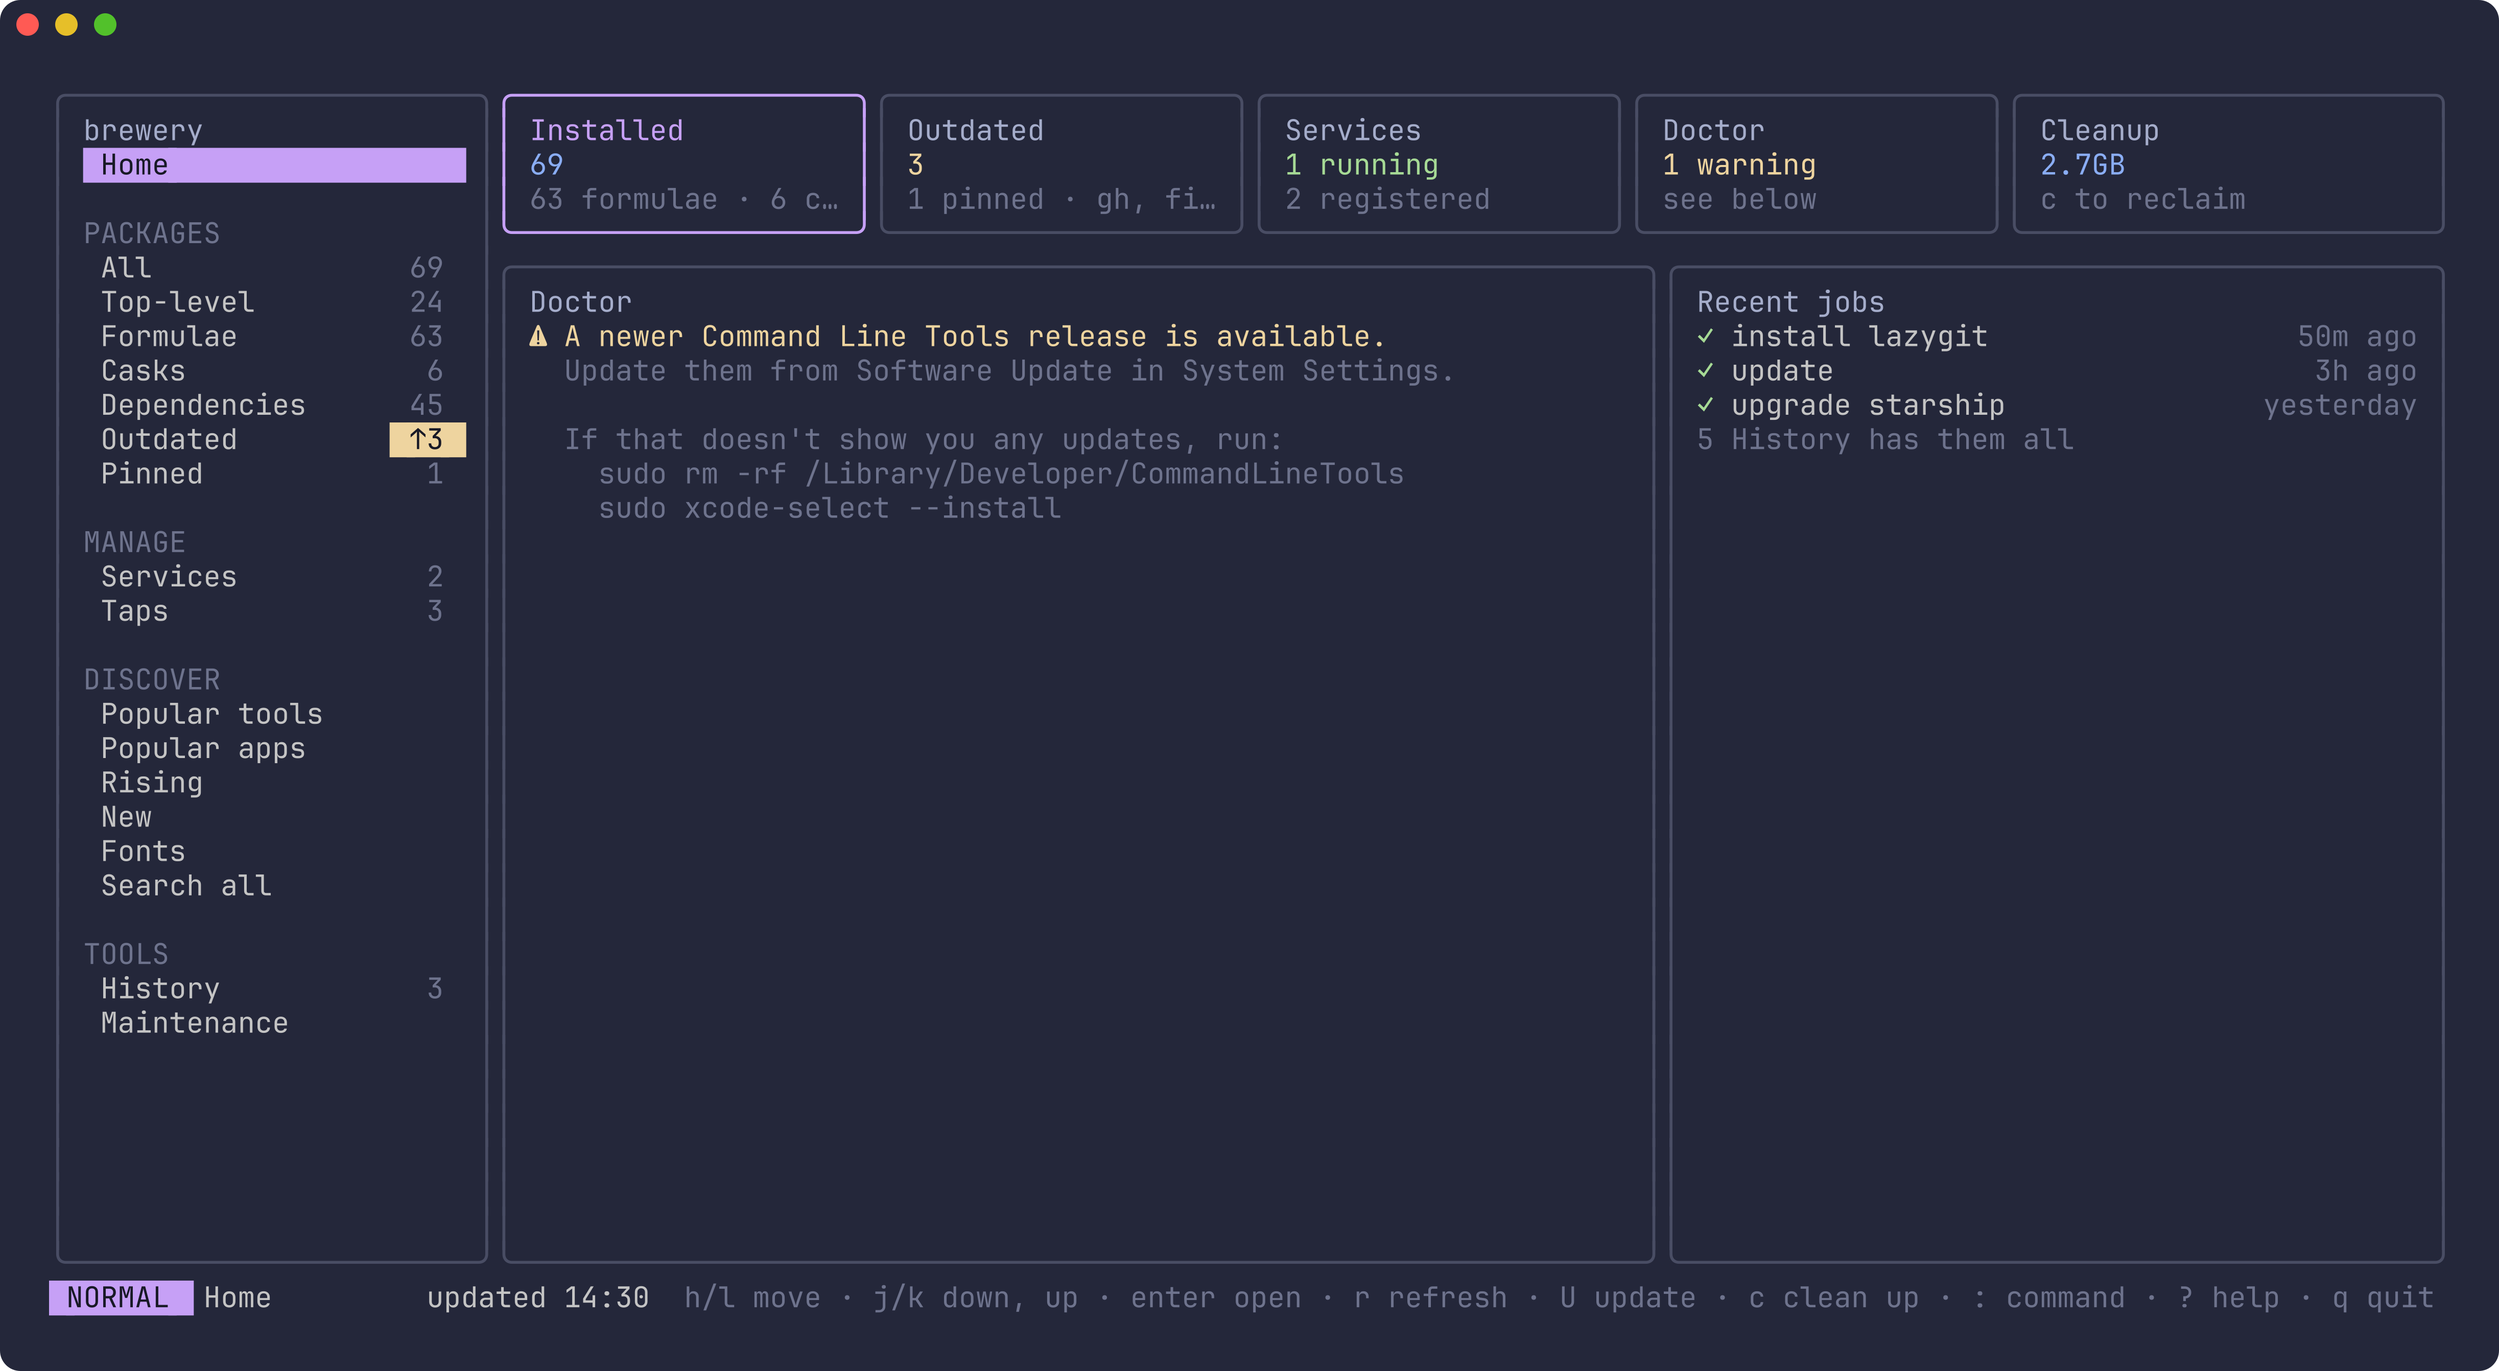
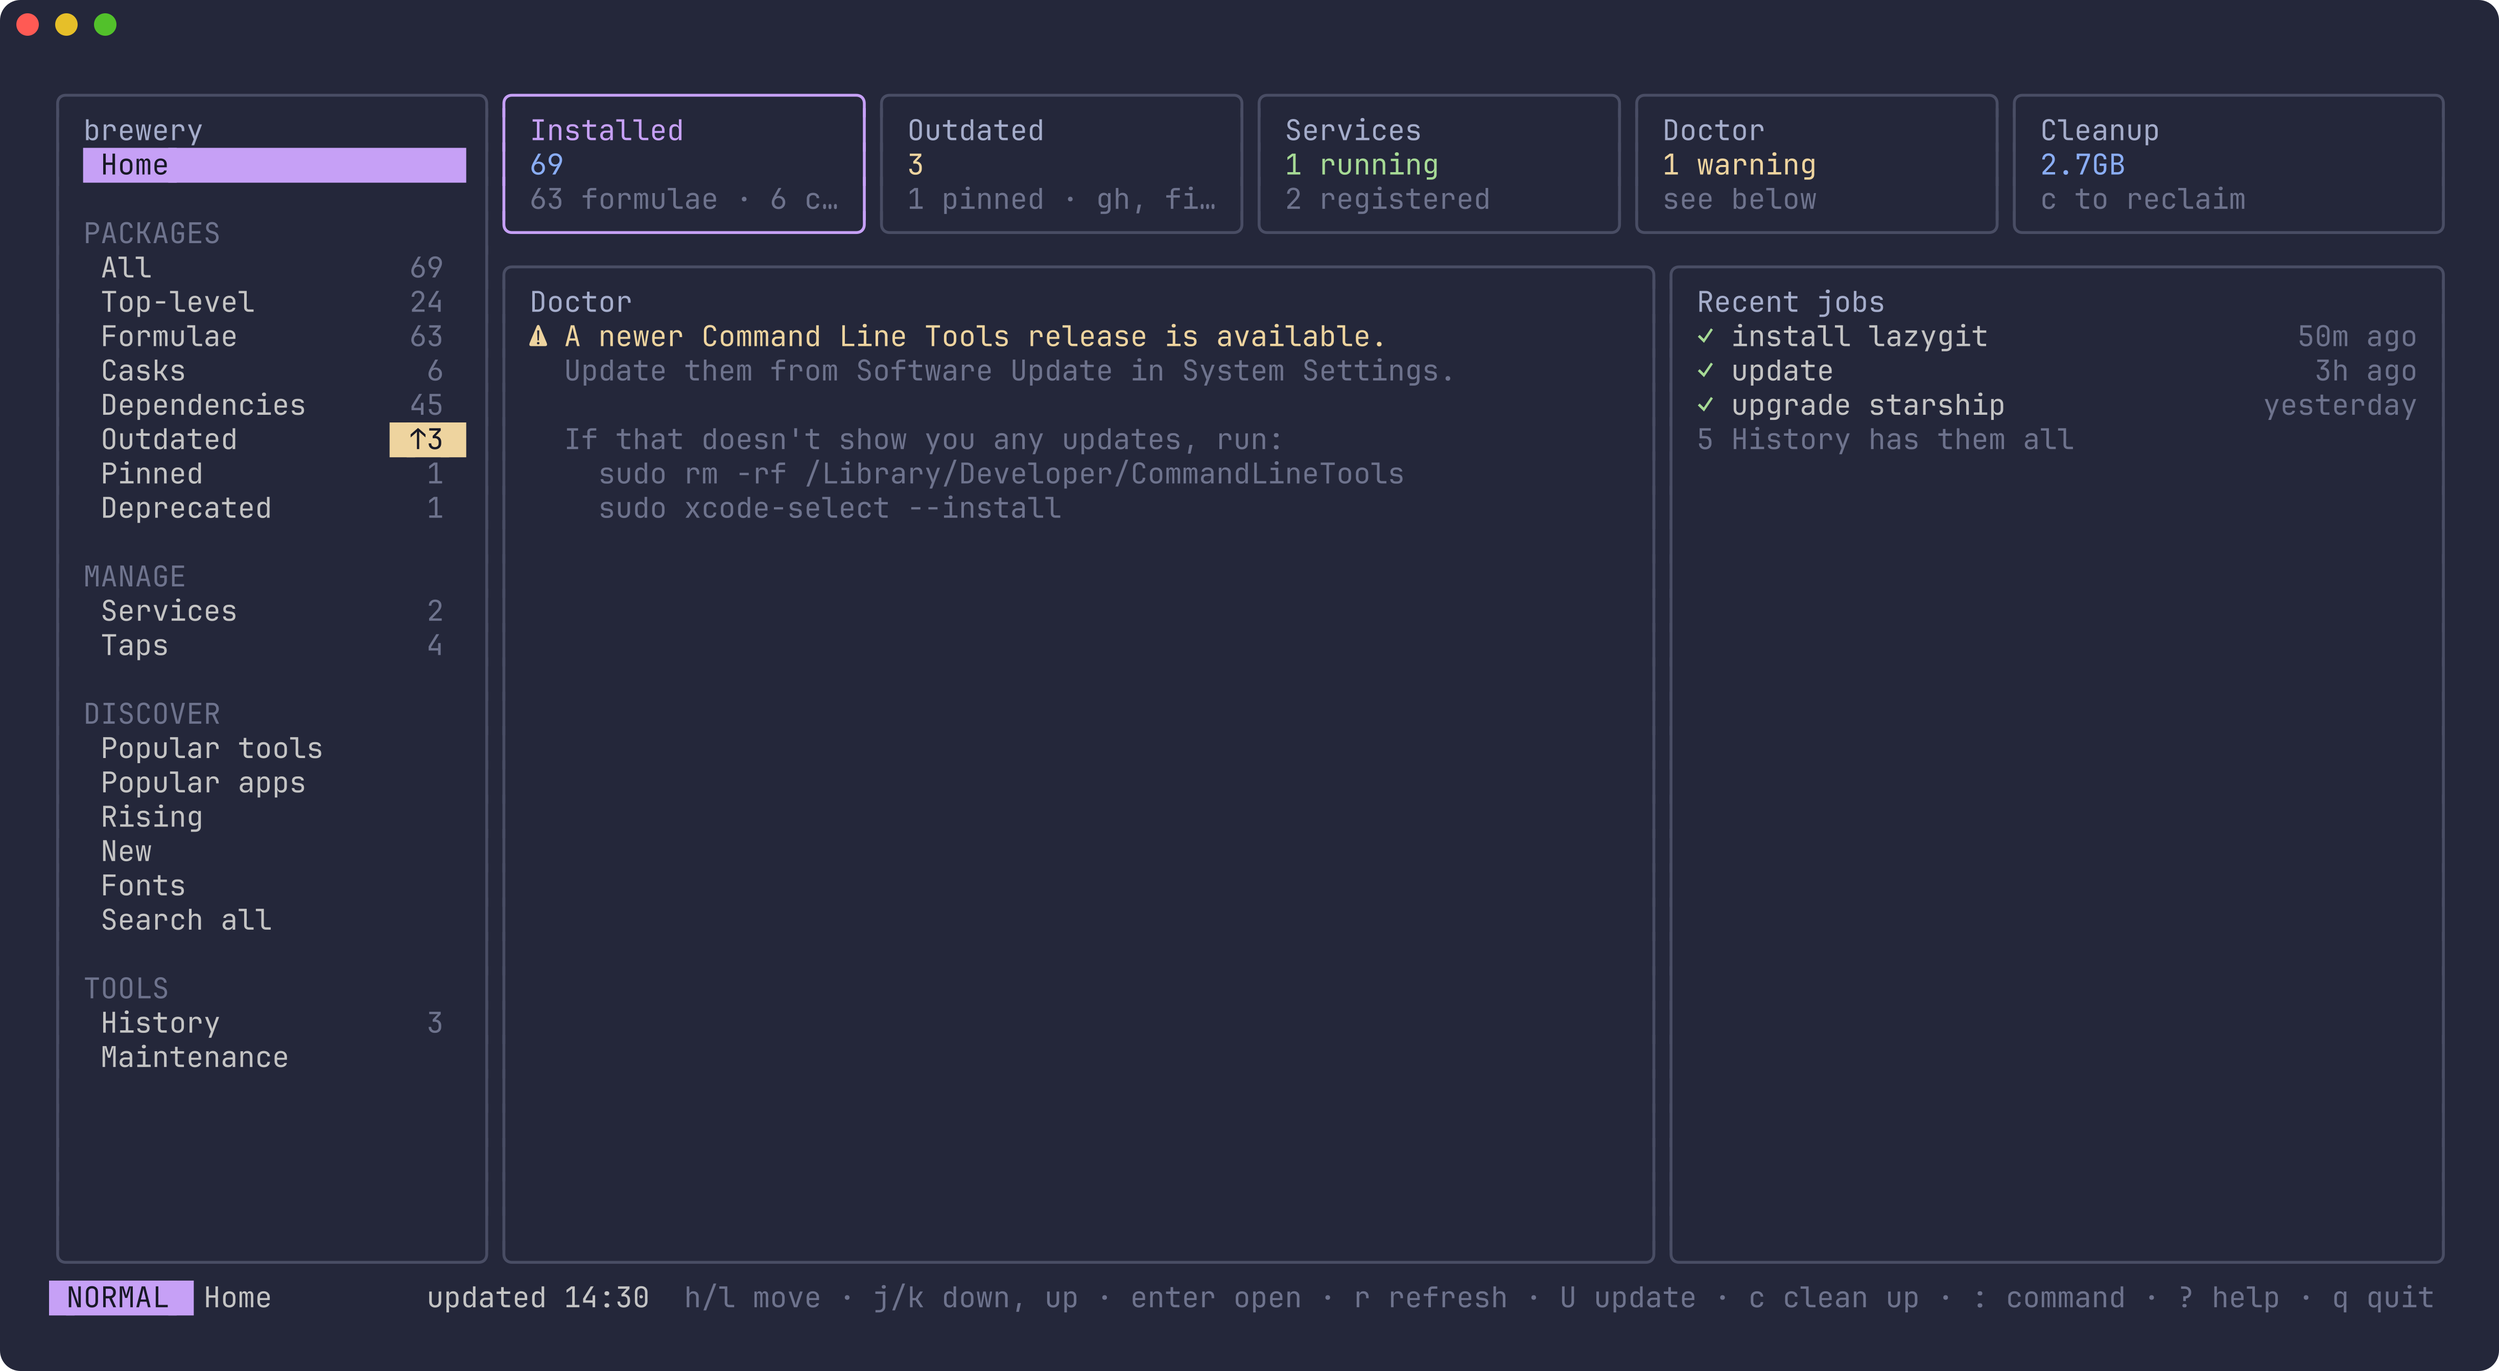
docs: README with install and trust steps, features, current keys and more screenshots

Changed region(s): [[0.0311, 0.5257, 0.1243, 0.7731], [0.0311, 0.3711, 0.0932, 0.5257]]

diff --git a/internal/ui/screenshots_test.go b/internal/ui/screenshots_test.go
@@ -15,6 +15,7 @@ import (
 
 	"github.com/dillo/brewery/internal/analytics"
 	"github.com/dillo/brewery/internal/brew"
+	"github.com/dillo/brewery/internal/github"
 	"github.com/dillo/brewery/internal/jobs"
 	"github.com/dillo/brewery/internal/state"
 )
@@ -83,9 +84,21 @@ func demoSnapshot(t *testing.T) state.Snapshot {
 		}
 	}
 	s.Sizes = map[string]int64{}
-	for _, p := range s.Packages {
+	for i, p := range s.Packages {
 		s.Sizes[p.Key()] = demoSize(p.Key())
+		s.Packages[i].Linked = p.Kind == brew.KindFormula // the demo's info.json predates linked_keg
+		if p.Name == "python@3.13" {                      // superseded, for the Deprecated view
+			s.Packages[i].Deprecated, s.Packages[i].Reason = true, "versioned_formula"
+			s.Packages[i].DeprecationDate, s.Packages[i].Replacement = "2026-04-01", "python@3.15"
+		}
 	}
+	// A second third-party tap, and what Check taps found yesterday.
+	s.Taps = append(s.Taps, brew.Tap{Name: "oldfriend/tools", Remote: "https://github.com/oldfriend/homebrew-tools", Formulae: 3})
+	s.TapChecks = []github.TapCheck{
+		{Tap: "dillo/tap", State: github.Fine},
+		{Tap: "oldfriend/tools", State: github.Archived},
+	}
+	s.TapsCheckedAt = demoNow.Add(-26 * time.Hour)
 	s.FetchedAt, s.DataAt = demoNow.Add(-2*time.Minute), demoNow.Add(-3*time.Hour)
 	return s
 }
@@ -224,6 +237,31 @@ func TestScreenshots(t *testing.T) {
 	show(t, a, "Popular tools") // Popular tools
 	selectDiscover(t, a, "pipx")
 	shoot(t, a, "discover")
+
+	selectInstalled(t, a, "gh") // outdated, so its menu offers the upgrade
+	show(t, a, "Top-level")
+	keys(t, a, "enter")
+	shoot(t, a, "menu")
+	keys(t, a, "esc")
+
+	selectInstalled(t, a, "python@3.13")
+	show(t, a, "Deprecated")
+	shoot(t, a, "deprecated")
+
+	show(t, a, "Services") // postgresql@16, with its log
+	keys(t, a, "l")
+	shoot(t, a, "services")
+
+	show(t, a, "Maintenance")
+	a.maint.table.SetCursor(maintTaps)
+	keys(t, a, "l")
+	shoot(t, a, "maintenance")
+
+	show(t, a, "Home") // the sidebar's jump from Home, part-way through /maint
+	keys(t, a, "h", "/")
+	typeText(t, a, "mai")
+	shoot(t, a, "jump")
+	keys(t, a, "esc")
 
 	p := newFakeProc(0, upgradeGh) // still running when the picture is taken
 	fs := &fakeStarter{procs: []*fakeProc{p}}

diff --git a/README.md b/README.md
@@ -1,19 +1,115 @@
 # brewery
 
 A terminal dashboard for Homebrew. See what's installed, what's outdated and
-what's running; upgrade, uninstall, pin, start and stop services, clean up,
-and find new formulae, apps and fonts to install — with brew's own output
-live in a drawer, and any brew command a `:` away.
+what's running. Upgrade, uninstall, pin, reinstall and link packages, start
+and stop services, keep Homebrew tidy, and find new formulae, apps and fonts
+to install. brew's own output streams live in a drawer, and any brew command
+is a `:` away.
 
 ![brewery's Home: counts of what's installed, outdated and running, doctor's warnings and recent jobs](docs/screenshots/home.png)
 
 ## Install
 
+brewery is a cask in the `dillo/tap` tap. Homebrew 7 only loads formulae and
+casks from third-party taps that you have trusted, so there are three steps:
+add the tap, trust brewery, then install it.
+
 ```sh
-brew install dillo/tap/brewery
+brew tap dillo/tap
+brew trust --cask dillo/tap/brewery
+brew install --cask dillo/tap/brewery
 ```
 
 Then run `brewery`.
+
+A few notes:
+
+- **What gets trusted.** The second command trusts only the brewery cask,
+  which is the narrowest choice. To trust everything in the tap instead, run
+  `brew trust dillo/tap`. Without either, brew skips the tap and says it
+  isn't trusted.
+- **Gatekeeper.** brewery isn't signed by Apple. The cask clears the
+  quarantine flag that macOS puts on downloads, so it runs without a
+  warning.
+- **Updating.** brewery shows up on its own Outdated list like any other
+  package, so you can upgrade it from inside brewery, or run
+  `brew upgrade --cask brewery`.
+- **Removing it.** Run `brew uninstall --cask brewery`, then
+  `brew untap dillo/tap` if you no longer want the tap.
+
+### Requirements
+
+- macOS (Apple Silicon or Intel)
+- Homebrew 7.0 or newer. brewery checks when it starts, and asks you to
+  run `brew update` if yours is older.
+- A [Nerd Font](https://www.nerdfonts.com) for icons, which is optional.
+  Without one, run `brewery --no-icons`, or set `BREWERY_NO_ICONS` to any
+  value.
+
+## Features
+
+**Packages**
+
+- Everything installed, in views: All, Top-level, Formulae, Casks,
+  Dependencies, Outdated, Pinned and Deprecated, each with a count in the
+  sidebar.
+- A details pane for the selected package: version, size on disk, how and
+  when it was installed, whether it's pinned or linked, its homepage and
+  caveats, and a tree of what it needs and what needs it.
+- Upgrade one package, several marked ones, or everything. brewery warns
+  before brew would refuse, for example when a package is pinned or a
+  dependency is pinned behind it.
+- Uninstall, with an offer to remove the dependencies nothing else needs.
+- Pin and unpin, reinstall, link and unlink (including keg-only formulae),
+  and fetch a newer version ahead of upgrading.
+- Deprecated and disabled packages are marked in the list, and their details
+  explain why in brew's own words, when they will be disabled, and what to
+  install instead.
+
+**An action menu**
+
+- Press `enter` on any row to see what you can do with it, each action with
+  its shortcut beside it. There's nothing to memorise: pick from the menu,
+  and learn the keys as you go.
+
+**Services**
+
+- Every `brew services` service with its status, and its log in the details.
+  Start, stop and restart them, or follow the log full screen.
+
+**Discover**
+
+- Homebrew's most installed tools and apps, what's rising, what's new, and
+  fonts, from Homebrew's public install counts.
+- Search the whole catalogue by name or description. Before you install, see
+  what the package would add.
+
+**Maintenance**
+
+- Doctor's warnings, and how much a cleanup would free.
+- Autoremove and services cleanup, each with a preview of what it would do.
+- Check taps: asks GitHub whether each third-party tap's repository is
+  archived, moved or gone. It only runs when you start it.
+- `brew update`, with when it last ran.
+
+**Running brew**
+
+- brew's output streams live in a drawer. When brew asks a question or wants
+  a password, you can answer it there.
+- Jobs queue one after another, and wait when another brew holds
+  its lock.
+- History keeps every job brewery ran, with its full output. Run any of them
+  again.
+- Run any brew command with `:`, with completion for commands, flags and
+  package names.
+
+**Getting around**
+
+- Vim-style keys throughout, `?` for the keys that work where you are, and
+  `/` to filter any list or jump to a sidebar entry.
+- Opens instantly from a cached snapshot, then refreshes in the background.
+- From 122 columns the sidebar, list and details sit side by side. In a
+  narrower window the columns slide with the focus.
 
 ## A look around
 
@@ -21,58 +117,57 @@ Everything installed, with what it needs and what needs it.
 
 ![Top-level: a list of packages with versions, sizes and status, and a preview of git with its dependency tree](docs/screenshots/installed.png)
 
+Press `enter` on a row for everything you can do with it.
+
+![The action menu for gh: upgrade, fetch, reinstall, unlink, pin, uninstall, copy the name and open the homepage, each with its key](docs/screenshots/menu.png)
+
+Packages on their way out, with brew's reason and what to install instead.
+
+![The Deprecated view: python@3.13, a versioned formula that will be disabled on 2027-04-01, with python@3.15 as its replacement](docs/screenshots/deprecated.png)
+
+Services, with the end of each one's log.
+
+![Services: postgresql@16 started, with its command, file and the end of its log in the details](docs/screenshots/services.png)
+
+Maintenance in one place, including a check of your taps on GitHub.
+
+![Maintenance: doctor, cleanup, autoremove, services cleanup, check taps and update, with an archived tap found by Check taps](docs/screenshots/maintenance.png)
+
 Find popular and rising packages, and install them.
 
-![Popular tools: Homebrew's most-installed tools, with a preview of pipx showing what installing it would add and its install counts](docs/screenshots/discover.png)
+![Popular tools: Homebrew's most installed tools, with a preview of pipx showing what installing it would add and its install counts](docs/screenshots/discover.png)
 
-brew's own output, live — answer its questions right in the drawer.
+brew's own output, live. Answer its questions right in the drawer.
 
 ![An upgrade of gh running, with brew's output in the drawer below the Outdated list](docs/screenshots/upgrade.png)
 
-## Requirements
+Type `/` in the sidebar to jump to an entry.
 
-- macOS (Apple Silicon or Intel)
-- Homebrew 7.0 or newer
-- A [Nerd Font](https://www.nerdfonts.com) for icons — optional. Without one,
-  run `brewery --no-icons`, or set `BREWERY_NO_ICONS` to any value.
+![The sidebar's jump: typing /mai selects Maintenance](docs/screenshots/jump.png)
 
 ## Sidebar
 
-- **Home**: counts, doctor's warnings, recent jobs
-- **Packages**: All, Top-level, Formulae, Casks, Dependencies, Outdated, Pinned,
-  each with the selected package's details beside it
-- **Manage**: Services, with each service's log; Taps, where `x` untaps one
-- **Discover**: Popular tools, Popular apps, Rising, New, Fonts, and Search all
-  for the whole catalogue
-- **Tools**: History, the jobs brewery has finished, with its command and output;
-  Maintenance, where `enter` runs doctor, a cleanup or `brew update`
-
-From 122 columns the sidebar, list and details sit side by side. In a narrower
-window the columns slide with the focus, so `h` and `l` turn pages.
+- **Home**: counts, doctor's warnings and recent jobs
+- **Packages**: All, Top-level, Formulae, Casks, Dependencies, Outdated,
+  Pinned and Deprecated
+- **Manage**: Services, with each service's log, and Taps, with what Check
+  taps found
+- **Discover**: Popular tools, Popular apps, Rising, New, Fonts, and Search
+  all for the whole catalogue
+- **Tools**: History, the jobs brewery has run, and Maintenance
 
 ## Keys
 
-Press `?` anywhere for the keys that work there.
+Press `?` anywhere for the keys that work there, and `enter` on a row for
+its actions.
+
+**Everywhere**
 
 | Key | What it does |
 |---|---|
-| `h` `l` | move between the sidebar, the list and the details; in a narrow window, a page at a time |
+| `h` `l` | move between the sidebar, the list and the details |
 | `1`–`5` | Home, Packages, Manage, Discover, Tools |
-| `[` `]` | previous or next entry |
-| `h` `l` on Home | along the tiles, and from Doctor to Recent jobs; `h` from the first tile or Doctor goes back to the sidebar |
-| `j` `k` on Home | down from the tiles to Doctor (then scroll it), back up to the tile; `enter` opens a tile, or History from Recent jobs |
-| `j` `k`, `gg` `G`, `ctrl+d` `ctrl+u` | move in a list |
-| `/` | filter the list |
-| `u` | upgrade (Packages) |
-| `A` | upgrade all (Outdated) |
-| `x` | uninstall (Packages, except Outdated), untap (Taps) |
-| `p` | pin or unpin (Packages, except Outdated) |
-| `space` | mark several for `u` or `x` |
-| `s` `S` `R` | start, stop, restart a service; `L` follows its log |
-| `a` | install (Discover) |
-| `l` `tab` `enter` | details, then `j` `k` scroll (on Maintenance, `enter` runs the row) |
-| `y` | copy the name |
-| `gx` | open the homepage |
+| `[` `]` | previous or next sidebar entry |
 | `:` | run any brew command; `:jobs` opens History |
 | `r` | refresh |
 | `U` | `brew update` |
@@ -80,12 +175,63 @@ Press `?` anywhere for the keys that work there.
 | `o` | show or hide brew's output |
 | `i` | type into the running job (passwords, questions) |
 | `ctrl+c` | stop the running job |
+| `?` | the keys that work here |
 | `q` | quit |
+
+**Sidebar**
+
+| Key | What it does |
+|---|---|
+| `j` `k`, `gg` `G` | choose an entry |
+| `/` | jump to an entry by name |
+| `l` `enter` | go to its list |
+
+**Lists**
+
+| Key | What it does |
+|---|---|
+| `j` `k`, `gg` `G`, `ctrl+d` `ctrl+u` | move |
+| `enter` | the action menu for the row |
+| `l` `tab` | the details, then `j` `k` scroll them |
+| `/` | filter the list; `esc` clears it |
+| `y` | copy the name (on History, the command) |
+| `gx` | open the homepage |
+| `space` | mark several (Installed and Outdated) |
+
+**Shortcuts for actions**, all also in the action menu:
+
+| Where | Key | What it does |
+|---|---|---|
+| Installed | `u` | upgrade |
+| | `x` | uninstall |
+| | `p` | pin or unpin |
+| | `R` | reinstall |
+| | `L` | link or unlink |
+| | `f` | fetch the newer version |
+| Outdated | `u` | upgrade |
+| | `f` | fetch the newer version |
+| | `A` | upgrade all |
+| Services | `s` `S` `R` | start, stop, restart |
+| | `L` | follow the log full screen |
+| Taps | `x` | untap |
+| Discover | `a` | install |
+| | `r` | fetch the install counts again |
+| History | `R` | run the job again |
+| Maintenance | `enter` | run the selected task |
+
+**Home**
+
+| Key | What it does |
+|---|---|
+| `h` `l` | along the tiles, and from Doctor to Recent jobs; `h` from the first tile goes back to the sidebar |
+| `j` `k` | down from the tiles to Doctor (then scroll it), and back up |
+| `enter` | open a tile, or History from Recent jobs |
 
 ## Files
 
 - `$XDG_CACHE_HOME/brewery` (default `~/.cache/brewery`): the last snapshot
-  of your packages, so brewery opens instantly, and Homebrew's analytics.
+  of your packages, so brewery opens instantly, Homebrew's install counts,
+  and what Check taps last found.
 - `$XDG_STATE_HOME/brewery` (default `~/.local/state/brewery`): the history
   of jobs brewery ran, and crash logs.
 
